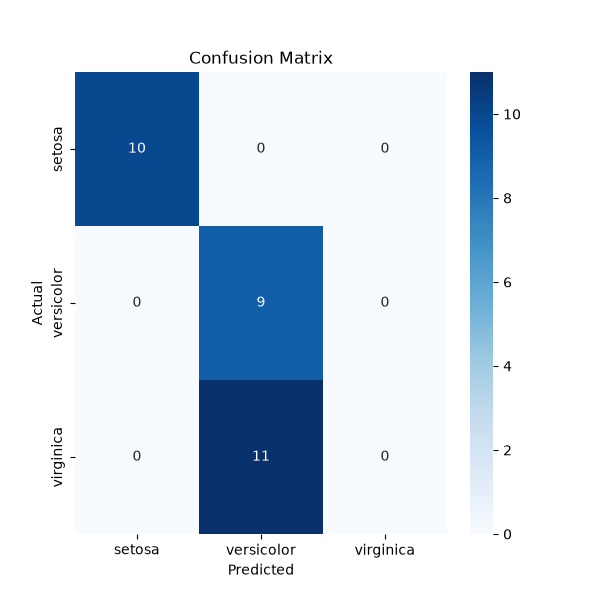
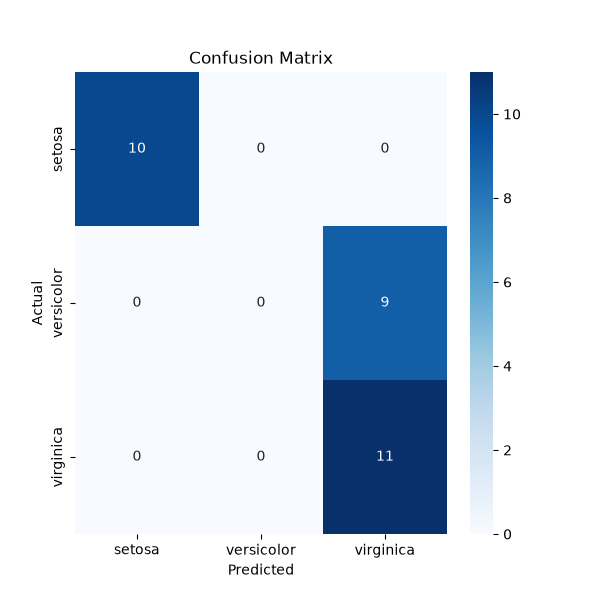
update RandomForest code

Changed region(s): [[0.33, 0.36, 0.75, 0.9]]

diff --git a/iris_rf.py b/iris_rf.py
@@ -28,11 +28,11 @@ y = iris.target
 
 X_train, X_test, y_train, y_test = train_test_split(X, y, test_size=0.2, random_state=42)
 
-max_depth = 1
+max_depth = 5
 n_estimators = 5
 
 # Apply mlflow.
-mlflow.set_experiment("Iris-dt")
+mlflow.set_experiment("Iris-rf")
 
 with mlflow.start_run():
 